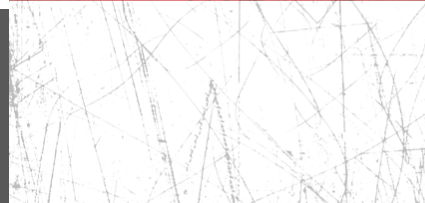
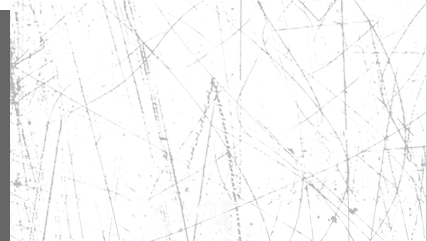
fond perdu du cartouche de texte

diff --git a/card_generator.js b/card_generator.js
@@ -464,24 +464,29 @@ function change_bleeding_areas() {
 
 	$(".calque_kill_noise").removeClass("calque_kill_noise_80 calque_kill_noise_0 calque_kill_noise_55");
 	$(".calque_break_in_noise").removeClass("calque_break_in_noise_80 calque_break_in_noise_0 calque_break_in_noise_55");
+	$(".calque_description").removeClass("calque_description_0 calque_description_36 calque_description_80");
 	
 	$("#card_bleeding_area").removeClass();
     if ($("#input_bleeding_none").is(":checked")) {
         $("#card_bleeding_area").addClass("bleeding_none");
 		$(".calque_kill_noise").addClass("calque_kill_noise_0");
 		$(".calque_break_in_noise").addClass("calque_break_in_noise_0");
+		$(".calque_description").addClass("calque_description_0");
     } else if ($("#input_bleeding_print_and_cut").is(":checked")) {
         $("#card_bleeding_area").addClass("bleeding_print_and_cut");
 		$(".calque_kill_noise").addClass("calque_kill_noise_80");
 		$(".calque_break_in_noise").addClass("calque_break_in_noise_80");
+		$(".calque_description").addClass("calque_description_80");
     } else if ($("#input_bleeding_ps_and_cut").is(":checked")) {
         $("#card_bleeding_area").addClass("bleeding_printerstudio_and_cut");
 		$(".calque_kill_noise").addClass("calque_kill_noise_55");
 		$(".calque_break_in_noise").addClass("calque_break_in_noise_55");
+		$(".calque_description").addClass("calque_description_36");
     } else		{
         $("#card_bleeding_area").addClass("bleeding_printerstudio_no_cut");
 		$(".calque_kill_noise").addClass("calque_kill_noise_55");
 		$(".calque_break_in_noise").addClass("calque_break_in_noise_55");
+		$(".calque_description").addClass("calque_description_36");
     }
 }
 

diff --git a/index.html b/index.html
@@ -20,6 +20,7 @@
 </div>
 	
 	
+	
 		<nav class="navbar navbar-default navbar-fixed-top">
 			  <div class="container-fluid">
 				<!-- Brand and toggle get grouped for better mobile display -->
@@ -172,8 +173,8 @@
 
 					<div id="card_bleeding_area" class="bleeding_none">                                       
 						<div id="card_overlay">                                                                                        
-							<img src="img/Stats.png" class="calque optional" id="calque_stats"/>     
-							<img src="img/Text.png" id="calque_description" class="calque optional"/>     
+							<img src="img/Stats.png" class="calque optional" id="calque_stats"/>          
+							<div id="calque_description" class="calque calque_description calque_description_0"></div>    
 							<table id="output_description_container">                  
 								<tr>                    
 									<td id="output_description"/>                  

diff --git a/card_generator.css b/card_generator.css
@@ -46,6 +46,8 @@ nav li div.radio label{
     height: 750px;
 }
 
+
+
 .bleeding_printerstudio_and_cut{
 	width:597px;
 	height: 822px;
@@ -236,6 +238,29 @@ textarea {
     margin-left: -55px;
 }
 
+.calque_description {
+	background-image:url("img/Text.png");
+	background-repeat: no-repeat;
+	background-position: top;
+	width:427px;
+    bottom: 0px;
+    left: 26px;
+}
+
+.calque_description_0 {
+	height:201px;
+}
+
+.calque_description_36 {
+	height:237px;
+	margin-bottom:-36px;
+}
+
+.calque_description_80 {
+	height:281px;
+	margin-bottom:-80px;
+}
+
 .optional {
     display:none;
 }
@@ -274,14 +299,14 @@ textarea {
     position:absolute;
     font-size: 18pt;
     color:#5C5C5F;
-    top: 545px;
+    bottom: 0px;
     width: 420px;
-    height: 205px;
+    height: 201px;
     left: 35px;
 }
 
 #output_description_container  tr{
-    height: 205px;
+    height: 201px;
     vertical-align:middle;
 }
 
